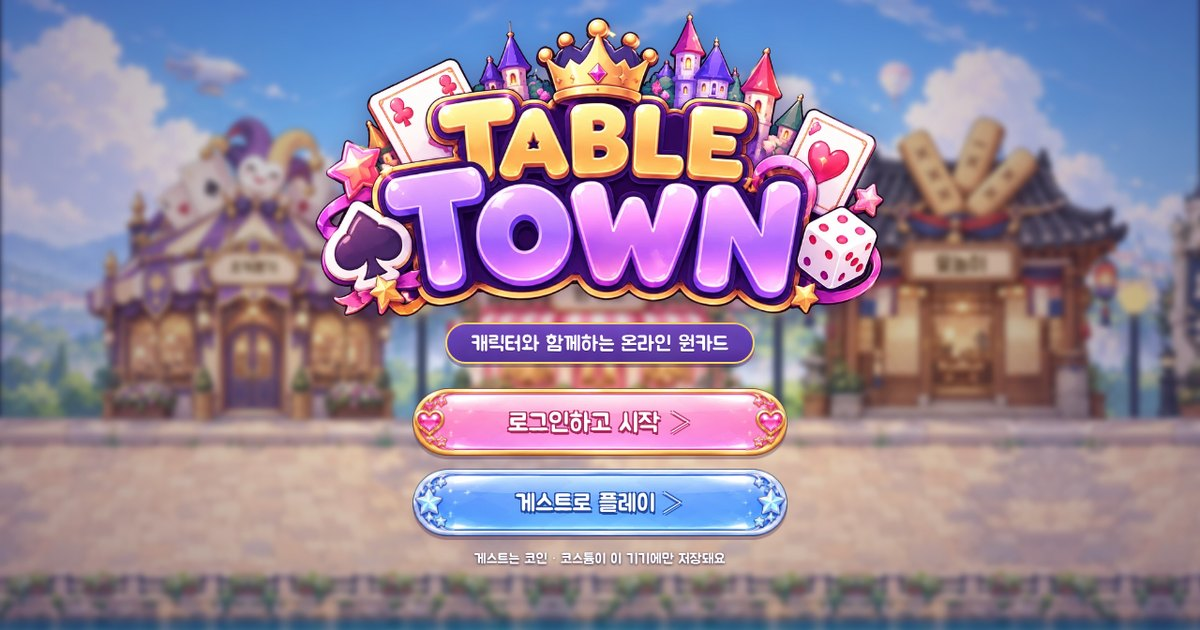
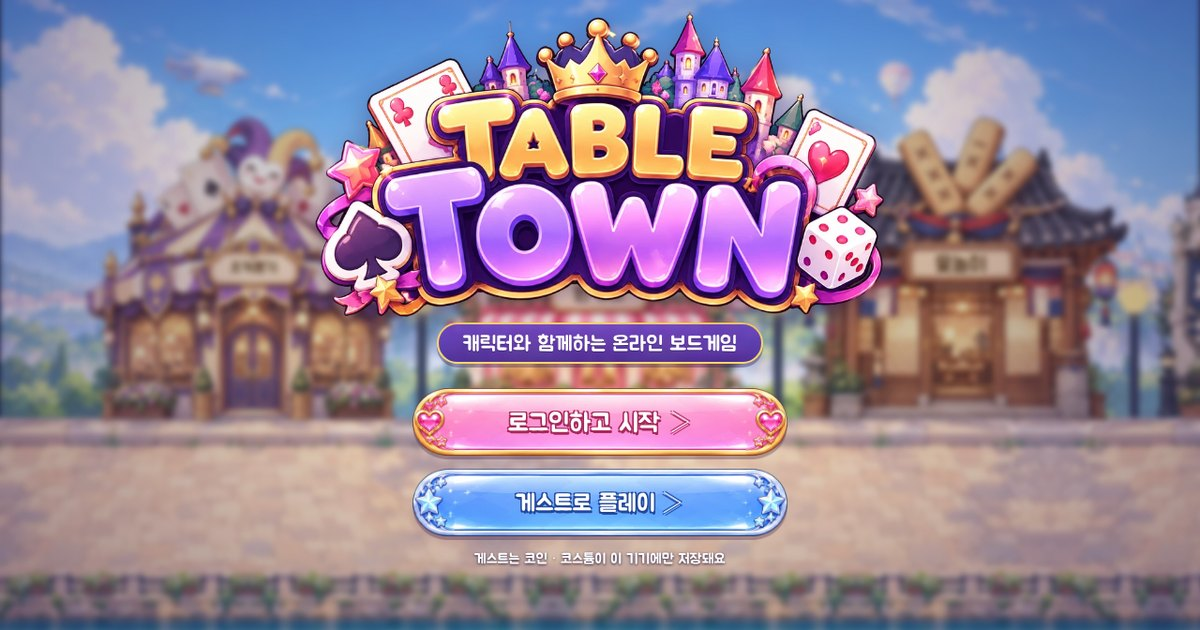
TABLE TOWN: 소개 문구 온라인 보드게임으로, 뽑기 배너 제목 사라짐 수정, 코인 + 버튼, 캐릭터 고르면 창 닫기

Changed region(s): [[0.3392, 0.5127, 0.6475, 0.6032]]

diff --git a/web/src/lib/town/engine.ts b/web/src/lib/town/engine.ts
@@ -74,7 +74,7 @@ const TEMPLATE = `
 <div class="tt-screen tt-title" data-s="title" hidden>
   <div class="tt-title-in">
     <h1 class="tt-tlogo">${ART.logo ? `<img src="${ART.logo}" alt="TABLE TOWN">` : "TABLE TOWN"}</h1>
-    <p class="tt-tsub">캐릭터와 함께하는 온라인 원카드</p>
+    <p class="tt-tsub">캐릭터와 함께하는 온라인 보드게임</p>
     <div class="tt-tbtns">
       <button type="button" class="tt-cs-go pink tt-tlogin">로그인하고 시작<i>›</i></button>
       <button type="button" class="tt-cs-go blue tt-tguest">게스트로 플레이<i>›</i></button>
@@ -305,7 +305,7 @@ export function mountTown(root: HTMLElement, opts: TownOpts = {}): () => void {
 
   // ---------- 돈 ----------
   function refreshMoney() {
-    const html = `<div class="tt-m">${icon("coin", "tt-coin")}<b>${ME.coins.toLocaleString()}</b><button type="button" class="tt-mplus" aria-label="코인 상점">+</button></div>`;
+    const html = `<div class="tt-m">${icon("coin", "tt-coin")}<b>${ME.coins.toLocaleString()}</b><button type="button" class="tt-mplus" aria-label="코인 상점"></button></div>`;
     for (const sel of [".tt-money-town", ".tt-money-room", ".tt-money-lobby"]) {
       $(sel).innerHTML = html;
     }
@@ -610,7 +610,7 @@ export function mountTown(root: HTMLElement, opts: TownOpts = {}): () => void {
           .join("") + [0, 1].map(() => `<div class="tt-cs-card lock"><span class="pic">🔒</span><b>준비 중</b><small>???</small></div>`).join("");
       ov.querySelector(".tt-cs-info")!.innerHTML = `<h3>${d.name}<span class="tt-tags">${tagsHTML(d.tags)}</span></h3><p>${d.desc}</p>`;
       const mine = sel === ME.char;
-      ov.querySelector(".tt-cs-btns")!.innerHTML = `<button type="button" class="tt-cs-go pink" ${mine ? "disabled" : ""}>${mine ? "선택 중인 캐릭터" : "이 캐릭터로 하기<i>›</i>"}</button><button type="button" class="tt-cs-go blue tt-cs-toskin">👕 스킨 보기</button>`;
+      ov.querySelector(".tt-cs-btns")!.innerHTML = `<button type="button" class="tt-cs-go pink" ${mine ? "disabled" : ""}>${mine ? "선택 중인 캐릭터" : "이 캐릭터로 하기"}</button><button type="button" class="tt-cs-go blue tt-cs-toskin">👕 스킨 보기</button>`;
       $$(".tt-cs-card[data-c]", ov).forEach((b) => (b.onclick = () => ((sel = b.dataset.c as CharId), draw())));
       const go = ov.querySelector<HTMLButtonElement>(".tt-cs-go.pink")!;
       go.onclick = async () => {
@@ -624,7 +624,7 @@ export function mountTown(root: HTMLElement, opts: TownOpts = {}): () => void {
         refreshMoney();
         refreshPlayerSd();
         toast(`${d.name}(으)로 바꿨어요`);
-        draw();
+        ov.remove();
       };
       ov.querySelector<HTMLElement>(".tt-cs-toskin")!.onclick = () => {
         ov.remove();
@@ -667,7 +667,7 @@ export function mountTown(root: HTMLElement, opts: TownOpts = {}): () => void {
           refreshMoney();
           refreshPlayerSd();
           toast(`${L.name === "기본 의상" ? d.name : L.name} 장착!`);
-          draw();
+          ov.remove();
         };
       ov.querySelector<HTMLElement>(".tt-cs-gacha")!.onclick = () => {
         ov.remove();
@@ -1970,9 +1970,9 @@ export function mountTown(root: HTMLElement, opts: TownOpts = {}): () => void {
 
   /** 화면 가운데 큰 글씨 (내 차례 · 방향 반대) */
   function banner(text: string, kind: string) {
-    root.querySelector(".tt-gbanner")?.remove();
+    root.querySelector(".tt-turnban")?.remove();
     const el = document.createElement("div");
-    el.className = `tt-gbanner ${kind}`;
+    el.className = `tt-turnban ${kind}`;
     el.innerHTML = `<b>${text}</b>`;
     $(".tt-game").appendChild(el);
     later(() => el.remove(), 1300);

diff --git a/web/src/css/town.css b/web/src/css/town.css
@@ -8133,7 +8133,7 @@
   line-height: 1.2;
 }
 /* ---------- 내 차례 · 진행 방향이 한눈에 ---------- */
-.tt-gbanner {
+.tt-turnban {
   position: absolute;
   left: 50%;
   top: 214px;
@@ -8142,7 +8142,7 @@
   pointer-events: none;
   animation: tt-banner 1.3s ease-out both;
 }
-.tt-gbanner b {
+.tt-turnban b {
   display: block;
   padding: 10px 56px 4px;
   border-radius: 999px;
@@ -8155,7 +8155,7 @@
   box-shadow: 0 6px 0 #b9780c, 0 0 40px rgba(255, 200, 60, 0.9);
   text-shadow: 0 2px 0 rgba(255, 255, 255, 0.7);
 }
-.tt-gbanner.rev b {
+.tt-turnban.rev b {
   color: #fff;
   background: linear-gradient(180deg, #8fc0ff, #3a6fe0);
   box-shadow: 0 6px 0 #2a4ea0, 0 0 40px rgba(100, 160, 255, 0.9);
@@ -8654,4 +8654,44 @@
   word-break: keep-all;
   overflow-wrap: anywhere;
   text-align: center;
+}
+
+/* 코인 + 버튼: 글자 대신 그린 십자 (정가운데) · 코인처럼 반짝이는 금색 단추 */
+.tt .tt-mplus {
+  position: relative;
+  flex: none;
+  width: 30px;
+  height: 30px;
+  margin-right: -6px;
+  padding: 0 !important;
+  font-size: 0;
+  border-radius: 50% !important;
+  border: 2px solid #fff4c8 !important;
+  background: radial-gradient(circle at 50% 30%, #fff0a8 0%, #ffcf4a 45%, #f0a01e 100%) !important;
+  box-shadow: inset 0 -3px 0 rgba(176, 96, 0, 0.35), 0 2px 0 #9c5a08, 0 0 0 1px rgba(80, 40, 0, 0.25) !important;
+  cursor: pointer;
+}
+.tt .tt-mplus::before,
+.tt .tt-mplus::after {
+  content: "";
+  position: absolute;
+  left: 50%;
+  top: 50%;
+  width: 14px;
+  height: 4px;
+  margin: -2px 0 0 -7px;
+  border-radius: 2px;
+  background: #fff;
+  box-shadow: 0 1px 0 rgba(150, 80, 0, 0.75);
+}
+.tt .tt-mplus::after {
+  transform: rotate(90deg);
+  box-shadow: 1px 0 0 rgba(150, 80, 0, 0.75);
+}
+.tt .tt-mplus:hover {
+  filter: brightness(1.08);
+}
+.tt .tt-mplus:active {
+  transform: translateY(1px);
+  box-shadow: inset 0 -2px 0 rgba(176, 96, 0, 0.35), 0 1px 0 #9c5a08 !important;
 }

diff --git a/web/src/app/games/town/layout.tsx b/web/src/app/games/town/layout.tsx
@@ -5,9 +5,9 @@ import "@/css/town.css";
 // page.tsx가 "use client"라 metadata를 export할 수 없어서 layout에서 지정
 export const metadata = {
   ...pageMeta({
-    title: "테이블 타운 (TABLE TOWN) - 캐릭터와 함께하는 온라인 원카드",
+    title: "테이블 타운 (TABLE TOWN) - 캐릭터와 함께하는 온라인 보드게임",
     description:
-      "친구나 캐릭터 봇과 함께하는 무료 온라인 원카드. 혼자 와도 빈자리는 봇이 채워 줘요. 설치 없이 PC · 모바일 지원.",
+      "마을을 돌아다니며 친구나 캐릭터 봇과 함께 즐기는 무료 온라인 보드게임. 원카드부터 하나씩 늘어나요. 혼자 와도 빈자리는 봇이 채워 줘요. 설치 없이 PC · 모바일 지원.",
     path: "/games/town/",
   }),
   // 아이폰 「홈 화면에 추가」 → 주소창 없는 전체화면 앱 (iOS 사파리는 요소 전체화면 API 가 없음) · 안드로이드는 「앱으로 설치」

diff --git a/web/src/app/games/town/page.tsx b/web/src/app/games/town/page.tsx
@@ -13,8 +13,8 @@ export default function Page() {
           title="TABLE TOWN"
           en="Board Game Town"
           accent="#FFC94A"
-          desc="친구 · 캐릭터 봇과 함께하는 온라인 원카드 · 빈자리는 봇이 채워 줘요"
-          tags={["원카드", "온라인 원카드", "봇 대전", "무료 카드게임"]}
+          desc="친구 · 캐릭터 봇과 함께하는 온라인 보드게임 · 빈자리는 봇이 채워 줘요"
+          tags={["온라인 보드게임", "원카드", "봇 대전", "무료 보드게임"]}
         />
       </div>
       <Faded>

diff --git a/web/src/data/navMenu.ts b/web/src/data/navMenu.ts
@@ -125,7 +125,7 @@ export const NAV_GROUPS: NavGroup[] = [
         href: "/games/town",
         image: imgTown,
         label: "TABLE TOWN",
-        desc: "친구 · 캐릭터 봇과 함께하는 온라인 원카드",
+        desc: "친구 · 캐릭터 봇과 함께하는 온라인 보드게임",
         icon: "px:town",
         badge: "ALPHA",
         featured: true, // 멜론 게임과 자리 바꿈 (메인 큰 칸 6개 맞춤)

diff --git a/web/src/lib/og/shots.ts b/web/src/lib/og/shots.ts
@@ -18,5 +18,5 @@ export const SHOT_KEYS = new Set([
   "games/rspeed",
   "games/town",
 ]);
-export const SHOT_VERSION = 7;
+export const SHOT_VERSION = 8;
 export const shotFile = (key: string) => `${key.replace(/\//g, "__")}.jpg`;
